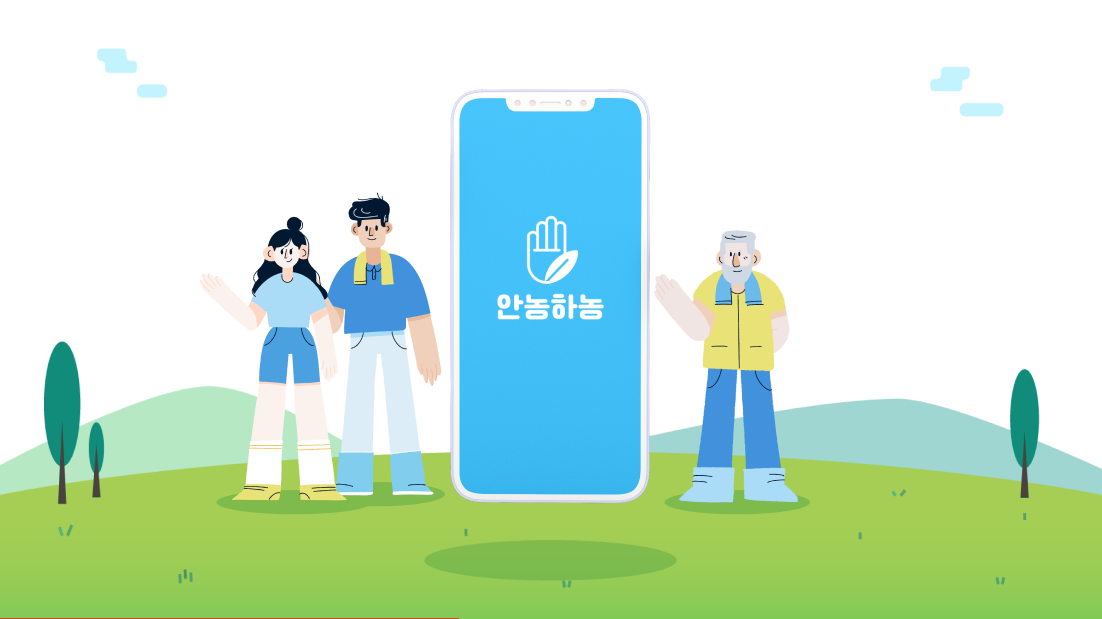
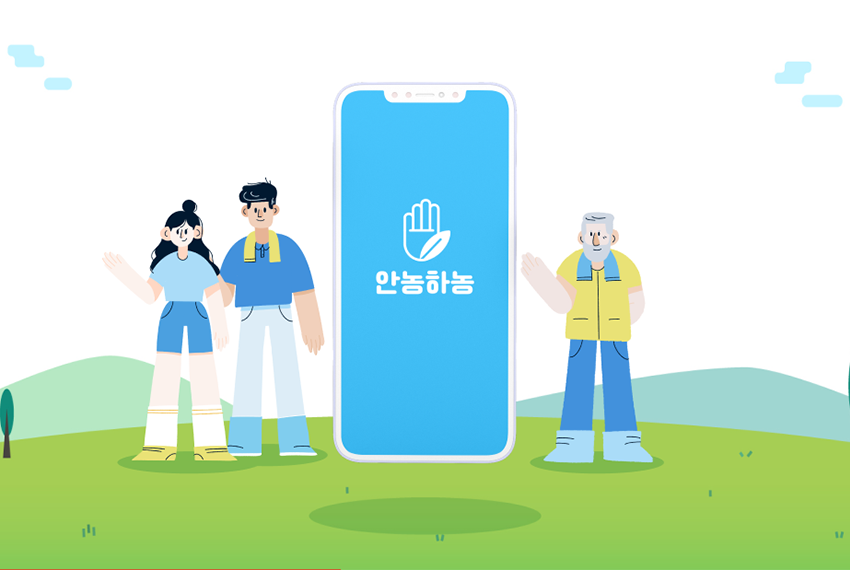
11

diff --git a/src/css/common.scss b/src/css/common.scss
@@ -71,29 +71,28 @@ body {
             .sct1-text-conteinr {
                     position: absolute;
                     top: 20%;
-                    left: 10%;
+                    left: 15%;
             
                     h2 {
                         padding-bottom: 3rem;
             
                         b {
                             display: block;
-                            width: 50%;
-                            font-size: 4rem;
+                            width: 70%;
+                            font-size: 4.5rem;
                             padding-left: 10px;
-                            background-image: linear-gradient(90deg, red, orange, yellow, green, blue, navy, purple);
-                            -webkit-background-clip: text;
-                            color: transparent;
+                            color: white;
                         }
                     }
                     p{
-                        &:nth-child(1){
+                        font-size: 1.5rem;
+                        &:nth-child(2){
                             padding-bottom: 16px;
                         }
                     }
                 }
                 .sct1-img-conteiner {
-                    width: 800px;
+                    width: 75%;
                     height: 600px;
                     border-radius: 15px;
                     position: absolute;
@@ -101,7 +100,7 @@ body {
                     top: 30%;
                     transform: translateY(-50%);
                     z-index: -1;
-                    background: url(../../public/img/jinwoo.jpg) no-repeat;
+                    background: url(../../public/img/darun.png) no-repeat;
                     background-size: cover;
                     background-position: 1% 16%;
                 }
@@ -207,6 +206,9 @@ body {
                                                 .stackImg{
                                                     margin-right: 4rem;
                                                     width: 40PX;
+                                                    @include responsive('l'){
+                                                        margin-right: 1rem;
+                                                    }
                                                     img {
                                                         width: 100%;
                                                         height: 100%;
@@ -294,6 +296,12 @@ body {
                             }
                         }
                     }
+                    .PersonnelBox{
+                        padding-top: 6rem;
+                        .Personnel{
+
+                        }
+                    }
                     p{
                         line-height: 25px;
                         color: rgba(255,255,255,0.8);
@@ -305,41 +313,54 @@ body {
                 }
                 .sct3-btn-container{
                     display: flex;
-                    align-items: center;
+                    align-items: flex-end;
                     justify-content: flex-end;
-                    .web-btn-img{
-                        width: 56px; height: 26px;
-                        background-color: gray;
-                        border-radius: 15px;
+                    flex-direction: column;
+                    .PersonnelBox{
+                        padding-bottom: 1rem;
+                        color: rgba(255, 255, 255,0.6);
+                        span{
+                            color: white;
+                        }
+                    }
+                    .btn-box{
                         display: flex;
-                        justify-content: center;
                         align-items: center;
-                        text-decoration: none;
-                        color: white;
-                        &:hover{
-                            animation: bounce 2s ease;
-                            @keyframes bounce {
-                                50% { transform:translateY(0%); }
-                                60% { transform:translateY(-15%); }
-                                70% { transform:translateY(0%); }
-                                85% { transform:translateY(-7%); }
-                                97% { transform:translateY(0%); }
-                                99% { transform:translateY(-3%); }
-                                100% { transform:translateY(0); }
+                        .web-btn-img{
+                            width: 56px; height: 26px;
+                            background-color: gray;
+                            border-radius: 15px;
+                            display: flex;
+                            justify-content: center;
+                            align-items: center;
+                            text-decoration: none;
+                            color: white;
+                            &:hover{
+                                animation: bounce 2s ease;
+                                @keyframes bounce {
+                                    50% { transform:translateY(0%); }
+                                    60% { transform:translateY(-15%); }
+                                    70% { transform:translateY(0%); }
+                                    85% { transform:translateY(-7%); }
+                                    97% { transform:translateY(0%); }
+                                    99% { transform:translateY(-3%); }
+                                    100% { transform:translateY(0); }
+                                }
+                            }
+                            p{
+    
                             }
                         }
-                        p{
-
-                        }
-                    }
-                    .git-btn-img{
-
-                        svg{
-                            path{
-                                width: 28px; height: 100%;
+                        .git-btn-img{
+    
+                            svg{
+                                path{
+                                    width: 28px; height: 100%;
+                                }
                             }
                         }
                     }
+                    
                 }
             }
         }
@@ -365,7 +386,7 @@ body {
                 background-color: white;
                 position: relative;
                 padding: 2rem 0;
-                padding-left: 1.7rem;
+                padding-left: 4rem;
                 display: flex;
                 flex-direction: column;
                 align-items: flex-start;
@@ -385,9 +406,20 @@ body {
                                 font-weight: bold;
                             }
                         }
+                        &:nth-child(2){
+                            li{
+                                padding: 16px 0;
+                            }
+                        }
                         margin: 0 8px;
                         li{
                             padding: 8px 0;
+                            img{
+                                width: 32px; height: 32px;
+                            }
+                        }
+                        .email{
+                            
                         }
                     }
                 }
@@ -408,7 +440,7 @@ body {
                     border-right: 30px solid transparent;
                 }
                 .sct4-feedback-container{
-                    padding: 0 2rem;
+                    padding: 0 4rem;
                     form{
                         display: flex;
                         flex-direction: column;
@@ -425,6 +457,7 @@ body {
                                 background-color: black;
                                 &::placeholder{
                                     color: white;
+                                    font-size: 1rem;
                                 }
                             }
                             textarea{
@@ -433,6 +466,7 @@ body {
                                 background-color: black;
                                 &::placeholder{
                                     color: white;
+                                    font-size: 1rem;
                                 }
                             }
                         }

diff --git a/src/sub/Project.jsx b/src/sub/Project.jsx
@@ -16,8 +16,13 @@ function Project({data}) {
                         <p>{item.info}</p>
                     </div>
                     <div className='sct3-btn-container'>
-                        <a href={item.weburl} target='blank' className='web-btn-img'><p>WEB</p></a>
-                        <a href={item.giturl} target='blank' className='git-btn-img'><svg fill="none" height="52px" viewBox="0 0 92 92" width="52px" xmlns="http://www.w3.org/2000/svg"><path clipRule="evenodd" d="m45.6097 21.0479c-14.2184 0-25.7347 11.4704-25.7347 25.6323 0 11.3423 7.3666 20.9224 17.5961 24.3187 1.2867.2243 1.7693-.5447 1.7693-1.2176 0-.6087-.0322-2.6273-.0322-4.774-6.4658 1.1855-8.1386-1.57-8.6533-3.0118-.2895-.7369-1.5441-3.0118-2.6378-3.6205-.9007-.4807-2.1875-1.6661-.0322-1.6982 2.0266-.032 3.4742 1.8584 3.9567 2.6273 2.3162 3.8769 6.0155 2.7875 7.4953 2.1147.2251-1.6661.9007-2.7875 1.6406-3.4283-5.726-.6408-11.7093-2.8516-11.7093-12.656 0-2.7875.9972-5.0944 2.6378-6.8887-.2574-.6408-1.1581-3.2681.2573-6.7926 0 0 2.1553-.6728 7.0771 2.6274 2.0587-.5768 4.2462-.8651 6.4336-.8651 2.1875 0 4.3749.2883 6.4337.8651 4.9218-3.3323 7.0771-2.6274 7.0771-2.6274 1.4154 3.5245.5146 6.1518.2573 6.7926 1.6406 1.7943 2.6378 4.0691 2.6378 6.8887 0 9.8364-6.0155 12.0152-11.7414 12.656.9328.801 1.737 2.3389 1.737 4.742 0 3.4283-.0321 6.1838-.0321 7.0488 0 .6729.4825 1.4739 1.7692 1.2176 10.1652-3.3963 17.5318-13.0084 17.5318-24.3187 0-14.1619-11.5163-25.6323-25.7347-25.6323z" fill="#fff" fillRule="evenodd"/></svg></a>
+                        <p className='PersonnelBox'>
+                            <span className='Personnel'>{item.Personnel}</span>{item.Personnels}
+                        </p>
+                        <div className='btn-box'>
+                            <a href={item.weburl} target='blank' className='web-btn-img'><p>WEB</p></a>
+                            <a href={item.giturl} target='blank' className='git-btn-img'><svg fill="none" height="52px" viewBox="0 0 92 92" width="52px" xmlns="http://www.w3.org/2000/svg"><path clipRule="evenodd" d="m45.6097 21.0479c-14.2184 0-25.7347 11.4704-25.7347 25.6323 0 11.3423 7.3666 20.9224 17.5961 24.3187 1.2867.2243 1.7693-.5447 1.7693-1.2176 0-.6087-.0322-2.6273-.0322-4.774-6.4658 1.1855-8.1386-1.57-8.6533-3.0118-.2895-.7369-1.5441-3.0118-2.6378-3.6205-.9007-.4807-2.1875-1.6661-.0322-1.6982 2.0266-.032 3.4742 1.8584 3.9567 2.6273 2.3162 3.8769 6.0155 2.7875 7.4953 2.1147.2251-1.6661.9007-2.7875 1.6406-3.4283-5.726-.6408-11.7093-2.8516-11.7093-12.656 0-2.7875.9972-5.0944 2.6378-6.8887-.2574-.6408-1.1581-3.2681.2573-6.7926 0 0 2.1553-.6728 7.0771 2.6274 2.0587-.5768 4.2462-.8651 6.4336-.8651 2.1875 0 4.3749.2883 6.4337.8651 4.9218-3.3323 7.0771-2.6274 7.0771-2.6274 1.4154 3.5245.5146 6.1518.2573 6.7926 1.6406 1.7943 2.6378 4.0691 2.6378 6.8887 0 9.8364-6.0155 12.0152-11.7414 12.656.9328.801 1.737 2.3389 1.737 4.742 0 3.4283-.0321 6.1838-.0321 7.0488 0 .6729.4825 1.4739 1.7692 1.2176 10.1652-3.3963 17.5318-13.0084 17.5318-24.3187 0-14.1619-11.5163-25.6323-25.7347-25.6323z" fill="#fff" fillRule="evenodd"/></svg></a>
+                        </div>
                     </div>
                 </div>
             </article>

diff --git a/src/sub/Contact.jsx b/src/sub/Contact.jsx
@@ -41,9 +41,9 @@ function Contact(props) {
                         <h3>Get In Touch</h3>
                         <address>
                             <ul>
-                                <li>NAME</li>
-                                <li>E-mail</li>
-                                <li>HP</li>
+                                <li><img src="./img/human.png" alt="" /></li>
+                                <li className='email'><img src="./img/Email.png" alt="" /></li>
+                                <li><img src="./img/callIcon.png" alt="" /></li>
                             </ul>
                             <ul>
                                 <li>Kim Jin Woo</li>
